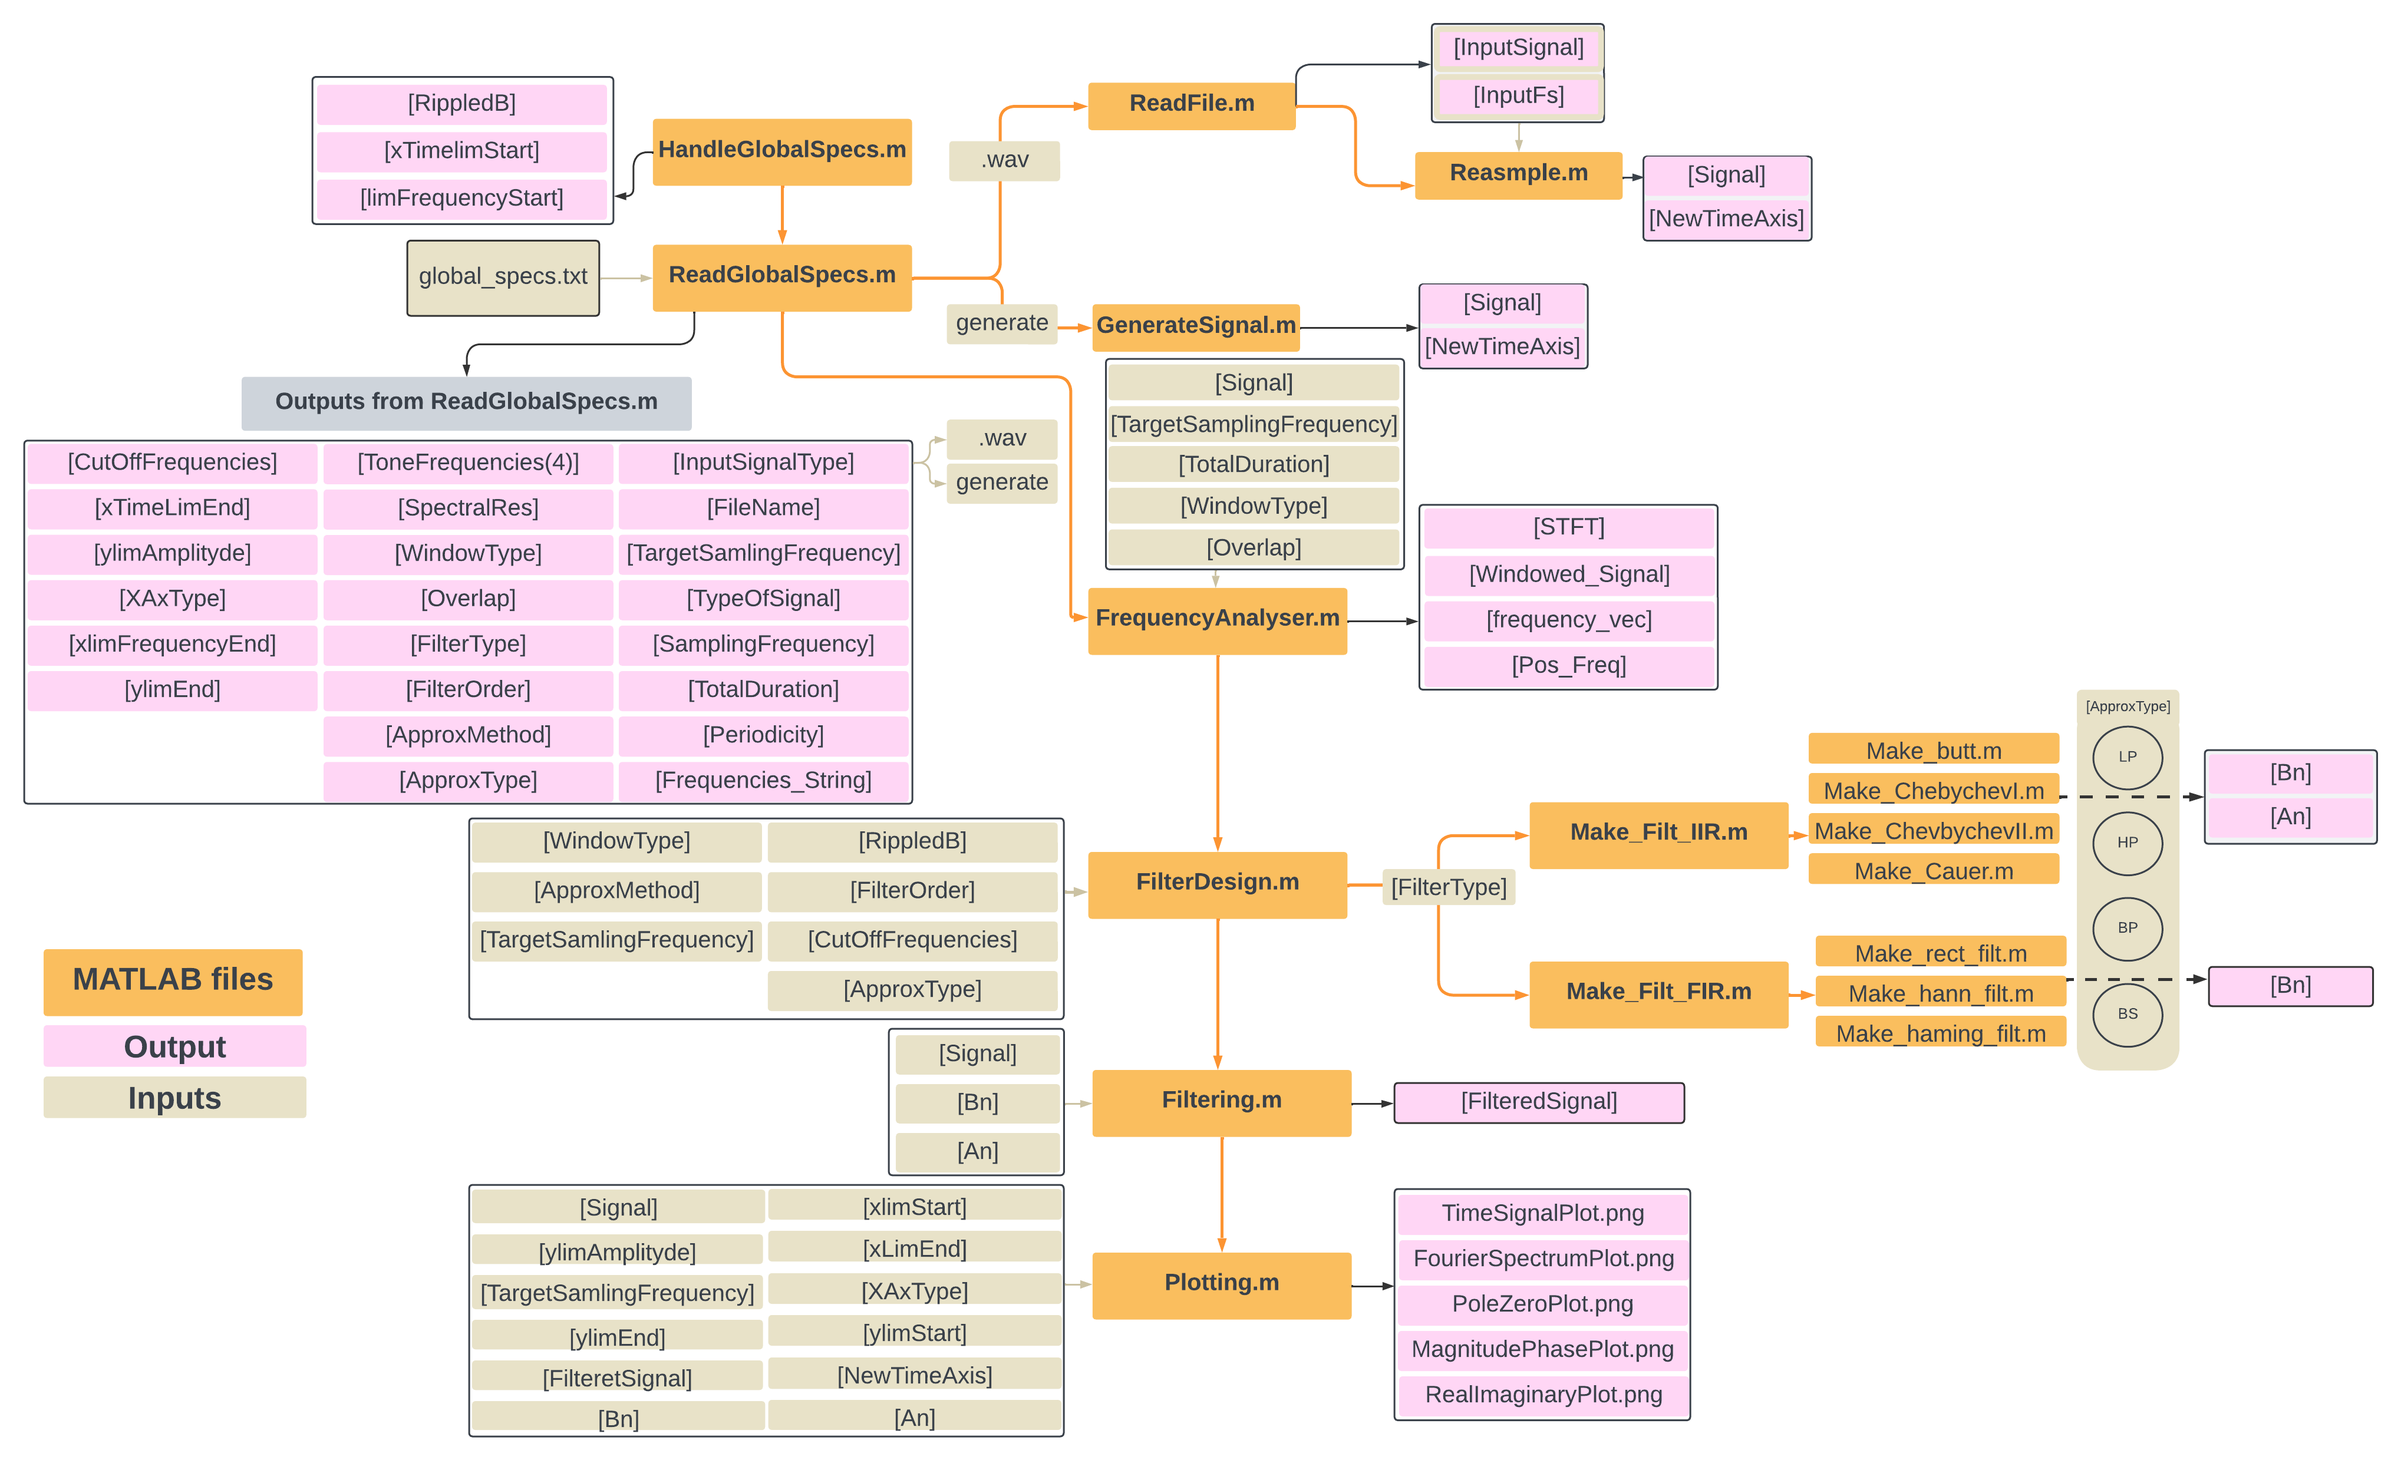
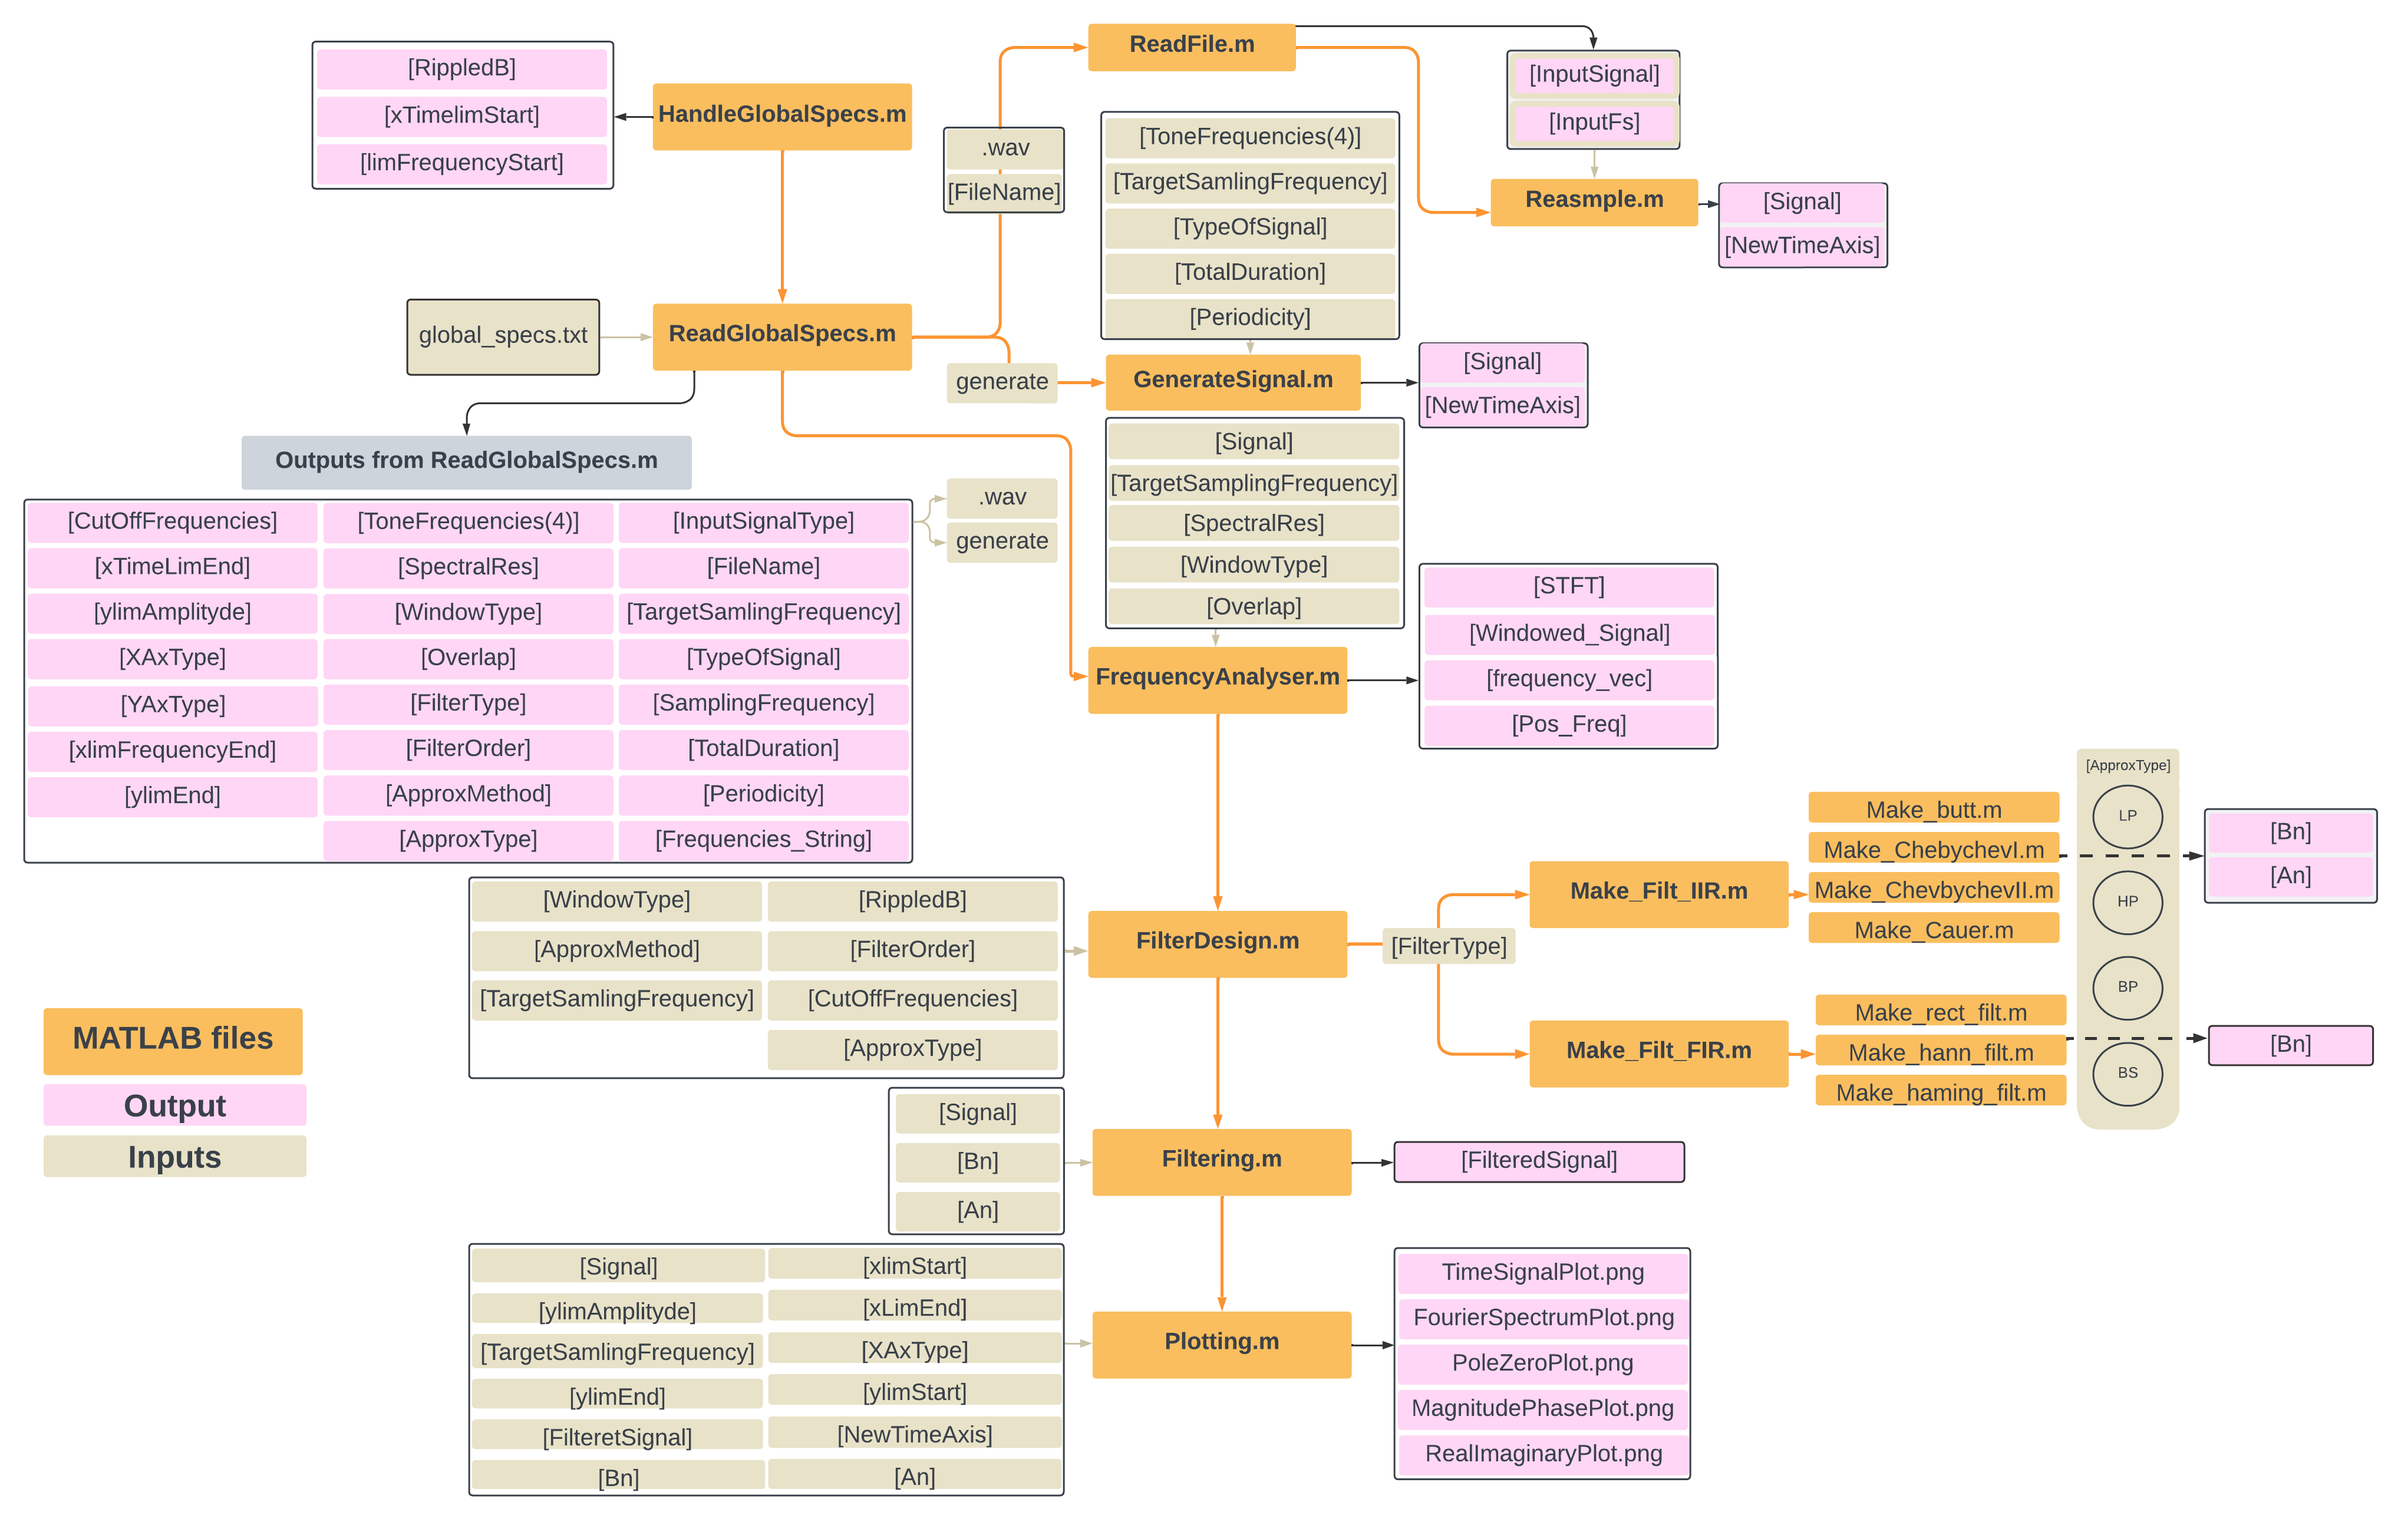
Ny

Changed region(s): [[0.0, 0.0, 0.9975, 0.9944], [0.0, 0.6525, 0.1247, 0.7768]]

diff --git a/Big_Boss_Funktionen/HandleGlobalSpecs.m b/Big_Boss_Funktionen/HandleGlobalSpecs.m
@@ -13,8 +13,8 @@ run('ReadGlobalSpecs.m');
 
 %Inputs: [GlobalSpecs.txt]
 %Outputs: [GS, InputSignalType, FileName, TargetSamplingFrequency, TypeOfSignal, SamplingFrequency, TotalDuration, Periodicity, Frequencies_string,
-%ToneFrequencies(4), SpectralRes, WindowType, Overlap, FilterType, FilterOrder, ApproxMethod, ApproxType, FrequenciesString, CutOffFrequencies, xLimTime,
-%ylimAmplitude, XAxType, xlimFrequency, ylimSig] 
+%ToneFrequencies(4), SpectralRes, WindowType, Overlap, FilterType, FilterOrder, ApproxMethod, ApproxType, CutOffFrequencies, xLimTime,
+%ylimAmplitude, XAxType, YAxType, xlimFrequency, ylimEnd] 
  
 if InputSignalType == "wav"
     % Read the .Wav file 
@@ -44,7 +44,7 @@ end
 % Frequency analyser
 run('FrequencyAnalyser.m');
 
-%Inputs: [SamplingFrequency, TotalDuration, WindowType]
+%Inputs: [Signal, TargetSamplingFrequency, SpectralRes, WindowType, Overlap]
 %Outputs: [Windowed_Signal, frequency_vec, Pos_Freq]
  
 % Filter Design
